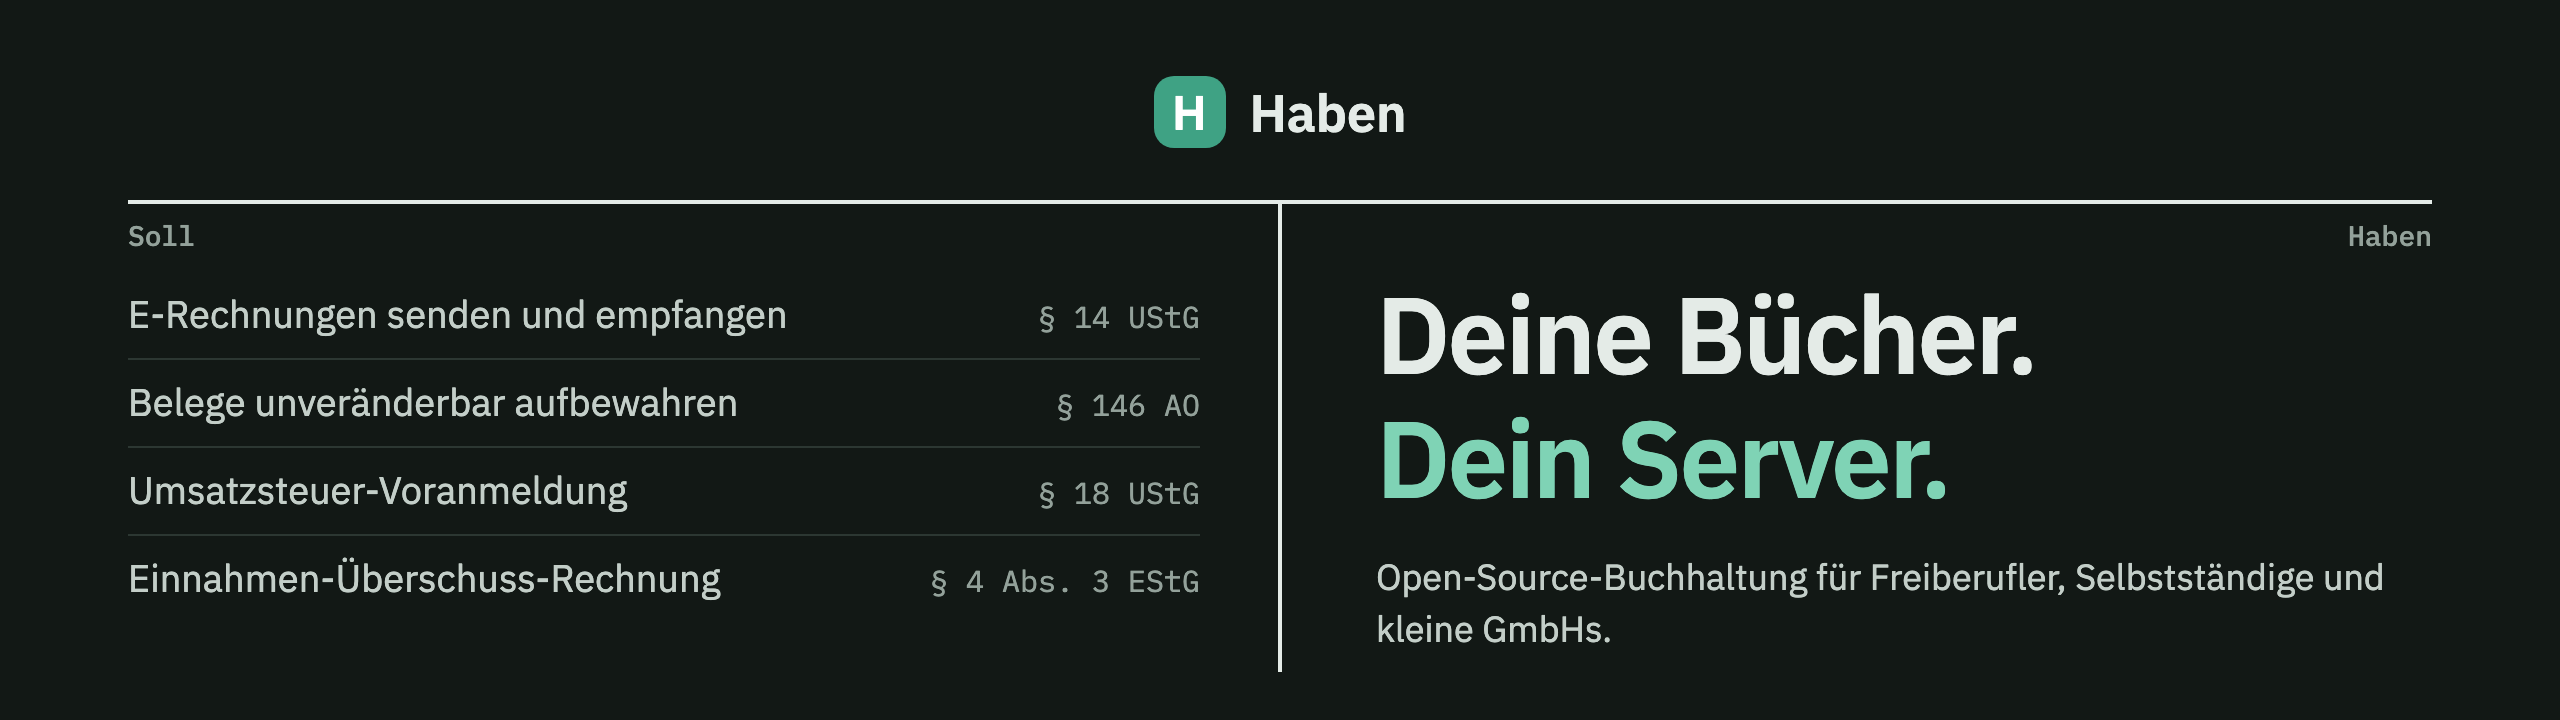
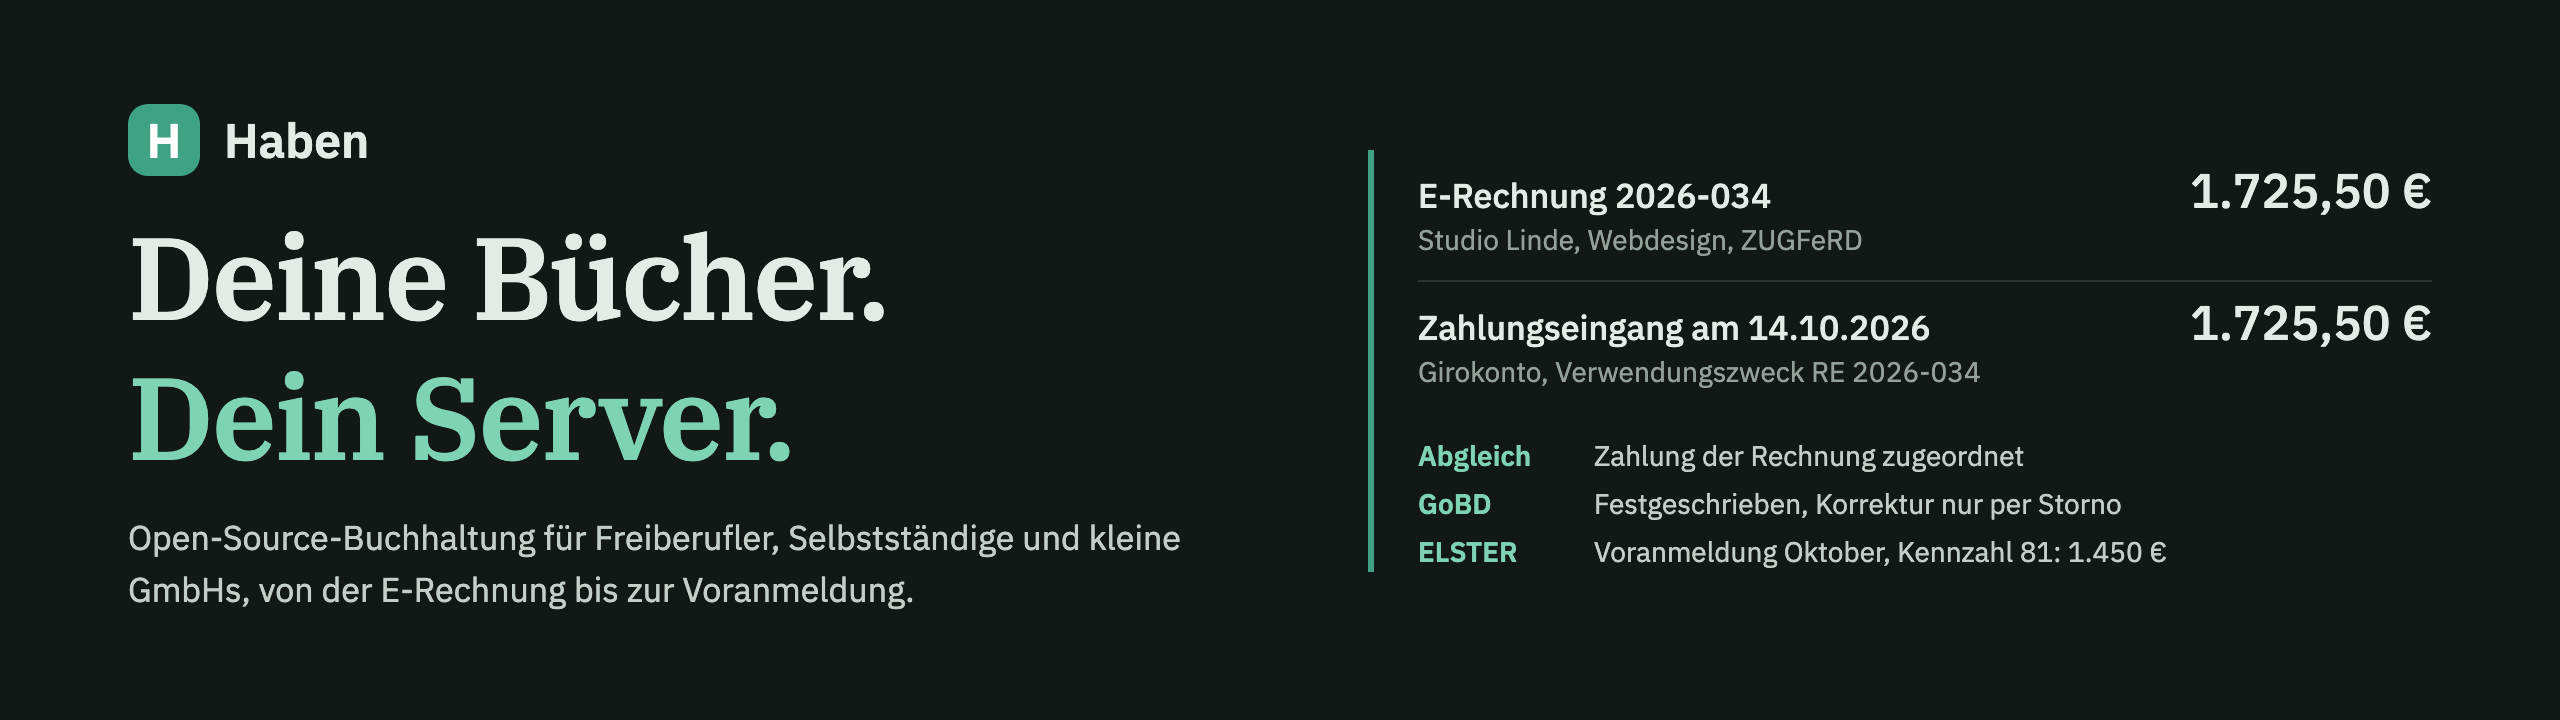
README: Hero und Vorschaubild mit Slogan in IBM Plex Serif, Rechnung und Zahlung als Auszug
Statt des T-Kontos wieder der Aufbau des Codex-Entwurfs: links Slogan und Unterzeile, rechts E-Rechnung und Zahlungseingang. Der Slogan steht in IBM Plex Serif aus packages/einvoice/fonts, rechts gibt es keine Karte, keine Symbolkacheln und keine Monoschrift mehr; Abgleich, GoBD und ELSTER stehen als Liste unter der Zuordnung. Das Vorschaubild folgt demselben Aufbau.

diff --git a/scripts/social-preview/social-preview.html b/scripts/social-preview/social-preview.html
@@ -1,7 +1,7 @@
 <!doctype html>
 <!-- Vorlage für das Social-Media-Bild des Repos (Settings → Social preview), 1280 × 640.
-     Im Stil des Bilds oben in der README (scripts/hero/hero.html): links die Navigation der App, rechts die Übersicht.
-     Ein Bild für alle Umgebungen, deshalb hell (Wald); die dunkle Navigation trägt es auch auf dunklem Grund.
+     Wie das Bild oben in der README (scripts/hero/hero.html), größer gesetzt: links der Slogan in IBM Plex Serif,
+     rechts Rechnung und Zahlung mit Abgleich, GoBD und ELSTER. Ein Bild für alle Umgebungen, deshalb hell (Wald).
      Rendern: bun run docs:social-preview → docs/social-preview.png -->
 <html lang="de">
 <head>
@@ -10,52 +10,48 @@
   @font-face { font-family: "IBM Plex Sans"; font-weight: 400; src: url("../../apps/web/node_modules/@fontsource/ibm-plex-sans/files/ibm-plex-sans-latin-400-normal.woff2") format("woff2"); }
   @font-face { font-family: "IBM Plex Sans"; font-weight: 500; src: url("../../apps/web/node_modules/@fontsource/ibm-plex-sans/files/ibm-plex-sans-latin-500-normal.woff2") format("woff2"); }
   @font-face { font-family: "IBM Plex Sans"; font-weight: 600; src: url("../../apps/web/node_modules/@fontsource/ibm-plex-sans/files/ibm-plex-sans-latin-600-normal.woff2") format("woff2"); }
+  @font-face { font-family: "IBM Plex Serif"; font-weight: 600; src: url("../../packages/einvoice/fonts/IBMPlexSerif-SemiBold.ttf") format("truetype"); }
 
   /* Wald, wie :root in apps/web/src/styles.css */
-  :root { --ink: #16211c; --ground: #f4f5f2; --line: #dde2de; --brand: #3fa284; --nav: #16211c; --nav-active: #2a3b34; --nav-ink: #b9c4be; }
+  :root { --ink: #16211c; --ink-2: #3f4a44; --muted: #56625c; --ground: #f4f5f2; --line: #dde2de; --brand: #3fa284; --accent-ink: #17574a;
+    --sans: "IBM Plex Sans", system-ui, sans-serif; --serif: "IBM Plex Serif", Georgia, serif; }
 
   * { margin: 0; padding: 0; box-sizing: border-box; }
   html, body { width: 1280px; height: 640px; overflow: hidden; }
-  body { position: relative; display: flex; font-family: "IBM Plex Sans", system-ui, sans-serif; background: var(--ground); color: var(--ink); }
-
-  .side { width: 440px; flex: none; background: var(--nav); color: var(--nav-ink); padding: 56px 48px; display: flex; flex-direction: column; position: relative; z-index: 1; }
-  .brand { display: flex; align-items: center; gap: 20px; }
-  .logo { width: 72px; height: 72px; border-radius: 16px; background: var(--brand); color: #fff; display: grid; place-items: center; font-size: 40px; font-weight: 600; }
-  .name { font-size: 56px; font-weight: 600; color: #fff; letter-spacing: -0.8px; }
-  .claim { margin-top: 40px; font-size: 44px; line-height: 52px; font-weight: 600; color: #fff; letter-spacing: -0.8px; }
-  /* Zweite Zeile in der Markenfarbe, wie im Hero der README */
-  .claim span { color: var(--brand); }
-  .sub { margin-top: 16px; font-size: 20px; line-height: 28px; }
-  .facts { margin-top: auto; display: flex; gap: 8px; flex-wrap: wrap; }
-  .facts span { font-size: 15px; line-height: 20px; padding: 6px 10px; border-radius: 16px; background: var(--nav-active); }
-
-  /* Die Übersicht ohne ihre Navigation läuft rechts und unten aus dem Bild, das Handy liegt darüber */
-  .shot { position: absolute; left: 488px; top: 56px; width: 960px; border: 1px solid var(--line); border-radius: 12px 0 0 0; overflow: hidden; }
-  /* Ohne die Navigation der App: die steht links schon */
-  .shot img { width: 1080px; margin-left: -174px; display: block; }
-  /* Handy rechts, unten angeschnitten wie aus dem Bild ragend: Rahmen 3 % und Ecken 17 % der Breite wie ein
-     aktuelles Handy, Kante, Seitentasten,
-     Statusleiste in der Farbe der Kopfzeile der App am Handy und Kamera als Pille. Das Bild selbst hat keine Statusleiste */
-  .phone { position: absolute; right: 40px; top: 176px; width: 244px; height: 504px; padding: 7px 7px 0; background: #0b100e; border-radius: 41px 41px 0 0; box-shadow: 0 0 0 1.5px #3a4741, 0 16px 40px rgba(22, 33, 28, 0.25); }
-  .phone::before, .phone::after { content: ""; position: absolute; width: 3px; border-radius: 2px; background: #3a4741; }
-  .phone::before { left: -4px; top: 96px; height: 48px; box-shadow: 0 -64px 0 0 #3a4741; }
-  .phone::after { right: -4px; top: 120px; height: 72px; }
-  .phone .screen { position: relative; height: 100%; border-radius: 34px 34px 0 0; overflow: hidden; padding-top: 30px; background: var(--nav); }
-  .phone .screen img { width: 100%; display: block; }
-  .phone .time { position: absolute; top: 8px; left: 26px; font-size: 13px; font-weight: 600; color: #fff; }
-  .phone .bars { position: absolute; top: 11px; right: 22px; display: flex; gap: 2px; align-items: flex-end; }
-  .phone .bars i { display: block; width: 3px; border-radius: 1px; background: #fff; }
-  .phone .island { position: absolute; top: 7px; left: 50%; width: 72px; height: 20px; margin-left: -36px; border-radius: 10px; background: #000; }
+  body { background: var(--ground); color: var(--ink); font-family: var(--sans); padding: 64px 72px; display: flex; flex-direction: column; }
+  .brand { display: flex; align-items: center; gap: 16px; font-size: 34px; font-weight: 600; }
+  .logo { width: 52px; height: 52px; border-radius: 14px; background: var(--brand); color: #fff; display: grid; place-items: center; font-size: 34px; }
+  .inhalt { flex: 1; display: grid; grid-template-columns: 1fr 520px; gap: 64px; align-items: center; }
+  h1 { font: 600 80px/94px var(--serif); letter-spacing: -1.4px; }
+  h1 span { display: block; color: var(--accent-ink); }
+  .beschreibung { margin-top: 20px; font-size: 24px; line-height: 34px; color: var(--ink-2); }
+  .auszug { padding-left: 26px; border-left: 4px solid var(--brand); }
+  .zeile { display: flex; justify-content: space-between; align-items: baseline; gap: 20px; padding: 10px 0 14px; }
+  .zeile + .zeile { border-top: 1px solid var(--line); }
+  .was { font-size: 22px; font-weight: 500; line-height: 30px; }
+  .wer { font-size: 18px; line-height: 26px; color: var(--muted); }
+  .betrag { font-size: 28px; font-weight: 500; font-variant-numeric: tabular-nums; white-space: nowrap; }
+  dl { display: grid; grid-template-columns: 96px 1fr; gap: 6px 14px; margin-top: 16px; font-size: 18px; line-height: 26px; }
+  dt { font-weight: 600; color: var(--accent-ink); }
+  dd { color: var(--ink-2); }
 </style>
 </head>
 <body>
-  <aside class="side">
-    <div class="brand"><div class="logo">H</div><div class="name">Haben</div></div>
-    <p class="claim">Deine Bücher.<br><span>Dein Server.</span></p>
-    <p class="sub">Open-Source-Buchhaltung für Freiberufler, Selbstständige und kleine GmbHs.</p>
-    <div class="facts"><span>E-Rechnung</span><span>ELSTER</span><span>GoBD</span><span>AGPL</span></div>
-  </aside>
-  <div class="shot"><img src="../../docs/screenshot-uebersicht.png" alt=""></div>
-  <div class="phone"><div class="screen"><img src="../../docs/screenshot-mobil.png" alt=""><div class="island"></div><div class="time">9:41</div><div class="bars"><i style="height:4px"></i><i style="height:6px"></i><i style="height:8px"></i><i style="height:10px"></i></div></div></div>
+  <div class="brand"><span class="logo">H</span>Haben</div>
+  <div class="inhalt">
+    <section>
+      <h1>Deine Bücher.<span>Dein Server.</span></h1>
+      <p class="beschreibung">Open-Source-Buchhaltung für Freiberufler, Selbstständige und kleine GmbHs.</p>
+    </section>
+    <section class="auszug">
+      <div class="zeile"><div><div class="was">E-Rechnung 2026-034</div><div class="wer">Studio Linde, ZUGFeRD</div></div><div class="betrag">1.725,50 €</div></div>
+      <div class="zeile"><div><div class="was">Zahlungseingang</div><div class="wer">Girokonto, RE 2026-034</div></div><div class="betrag">1.725,50 €</div></div>
+      <dl>
+        <dt>Abgleich</dt><dd>Zahlung zugeordnet</dd>
+        <dt>GoBD</dt><dd>Festgeschrieben</dd>
+        <dt>ELSTER</dt><dd>Voranmeldung Oktober</dd>
+      </dl>
+    </section>
+  </div>
 </body>
 </html>

diff --git a/scripts/hero/hero.html b/scripts/hero/hero.html
@@ -1,5 +1,5 @@
 <!doctype html>
-<!-- Bild oben in der README, 1280 × 360 bei doppelter Auflösung. Gesetzt als T-Konto: links Soll, was das Steuerrecht verlangt, rechts Haben.
+<!-- Bild oben in der README, 1280 × 360 bei doppelter Auflösung. Aufbau nach einem Entwurf von Codex; der Slogan in IBM Plex Serif aus packages/einvoice/fonts, alles andere in Plex Sans wie die App.
      Farben und Schriften wie in apps/web/src/styles.css: ohne Hash Wald (hell), mit #nacht das dunkle Theme.
      Rendern: bun run docs:hero → docs/hero-hell.png und docs/hero-dunkel.png -->
 <html lang="de">
@@ -12,6 +12,7 @@
     @font-face { font-family: "IBM Plex Sans"; font-style: normal; font-weight: 400; src: url("../../apps/web/node_modules/@fontsource/ibm-plex-sans/files/ibm-plex-sans-latin-400-normal.woff2") format("woff2"); }
     @font-face { font-family: "IBM Plex Sans"; font-style: normal; font-weight: 500; src: url("../../apps/web/node_modules/@fontsource/ibm-plex-sans/files/ibm-plex-sans-latin-500-normal.woff2") format("woff2"); }
     @font-face { font-family: "IBM Plex Sans"; font-style: normal; font-weight: 600; src: url("../../apps/web/node_modules/@fontsource/ibm-plex-sans/files/ibm-plex-sans-latin-600-normal.woff2") format("woff2"); }
+    @font-face { font-family: "IBM Plex Serif"; font-style: normal; font-weight: 600; src: url("../../packages/einvoice/fonts/IBMPlexSerif-SemiBold.ttf") format("truetype"); }
     @font-face { font-family: "IBM Plex Mono"; font-style: normal; font-weight: 400; src: url("../../apps/web/node_modules/@fontsource/ibm-plex-mono/files/ibm-plex-mono-latin-400-normal.woff2") format("woff2"); }
     @font-face { font-family: "IBM Plex Mono"; font-style: normal; font-weight: 500; src: url("../../apps/web/node_modules/@fontsource/ibm-plex-mono/files/ibm-plex-mono-latin-500-normal.woff2") format("woff2"); }
 
@@ -30,6 +31,7 @@
       --danger-ink: #9b1c1c; --danger-soft: #fbe4e4;
       --sans: "IBM Plex Sans", system-ui, sans-serif;
       --mono: "IBM Plex Mono", ui-monospace, monospace;
+      --serif: "IBM Plex Serif", Georgia, serif;
     }
     html.nacht {
       color-scheme: dark;
@@ -47,46 +49,40 @@
     * { box-sizing: border-box; }
     html, body { margin: 0; width: 1280px; height: 360px; }
     body { background: var(--ground); color: var(--ink); font: 400 16px/24px var(--sans); }
-    main { position: relative; width: 1280px; height: 360px; padding: 36px 64px 0; }
-    .brand { display: flex; justify-content: center; align-items: center; gap: 12px; height: 40px; font-size: 26px; font-weight: 600; }
+    main { width: 1280px; height: 360px; padding: 36px 64px; display: grid; grid-template-columns: 540px 1fr; gap: 80px; align-items: center; }
+    .brand { display: flex; align-items: center; gap: 12px; font-size: 24px; line-height: 36px; font-weight: 600; }
     .brand-mark { width: 36px; height: 36px; display: grid; place-items: center; border-radius: 10px; background: var(--brand); color: #fff; font-size: 24px; }
-    /* Das T: Querstrich über beide Seiten, Mittelstrich bis fast zum Rand */
-    .konto { position: relative; margin-top: 24px; height: 236px; border-top: 2px solid var(--ink); display: grid; grid-template-columns: 1fr 1fr; }
-    .konto::before { content: ""; position: absolute; left: 50%; top: 0; bottom: 0; width: 2px; margin-left: -1px; background: var(--ink); }
-    .seite { position: relative; padding-top: 34px; }
-    .soll { padding-right: 40px; }
-    .haben { padding-left: 48px; }
-    .kopf { position: absolute; top: 8px; font: 500 14px/16px var(--mono); color: var(--muted); }
-    .soll .kopf { left: 0; }
-    .haben .kopf { right: 0; }
-    ul { list-style: none; margin: 0; padding: 0; }
-    li { display: flex; justify-content: space-between; align-items: baseline; gap: 24px; height: 44px; padding-top: 9px; border-bottom: 1px solid var(--line); font-size: 19px; color: var(--ink-2); }
-    li:last-child { border-bottom: 0; }
-    li span { font: 400 15px/20px var(--mono); color: var(--muted); white-space: nowrap; }
-    h1 { margin: 0; font-size: 54px; line-height: 62px; font-weight: 600; letter-spacing: -1.3px; }
+    h1 { margin: 16px 0 12px; font: 600 58px/70px var(--serif); letter-spacing: -1px; }
     h1 span { display: block; color: var(--accent-ink); }
-    .beschreibung { margin: 16px 0 0; color: var(--ink-2); font-size: 18px; line-height: 26px; }
+    .beschreibung { margin: 0; color: var(--ink-2); font-size: 17px; line-height: 26px; }
+    /* Rechts wie ein Auszug, ohne Kasten: die Linie in der Markenfarbe hält Rechnung und Zahlung zusammen */
+    .auszug { padding-left: 22px; border-left: 3px solid var(--brand); }
+    .zeile { display: flex; justify-content: space-between; align-items: baseline; gap: 24px; padding: 8px 0 10px; }
+    .zeile + .zeile { border-top: 1px solid var(--line); }
+    .was { font-size: 17px; font-weight: 500; line-height: 24px; }
+    .wer { font-size: 14px; line-height: 20px; color: var(--muted); }
+    .betrag { font-size: 24px; font-weight: 500; font-variant-numeric: tabular-nums; white-space: nowrap; }
+    dl { display: grid; grid-template-columns: 76px 1fr; gap: 4px 12px; margin: 12px 0 0; font-size: 14px; line-height: 20px; }
+    dt { font-weight: 600; color: var(--accent-ink); }
+    dd { margin: 0; color: var(--ink-2); }
   </style>
 </head>
 <body>
   <main>
-    <div class="brand"><span class="brand-mark">H</span>Haben</div>
-    <div class="konto">
-      <section class="seite soll">
-        <span class="kopf">Soll</span>
-        <ul>
-          <li>E-Rechnungen senden und empfangen<span>§ 14 UStG</span></li>
-          <li>Belege unveränderbar aufbewahren<span>§ 146 AO</span></li>
-          <li>Umsatzsteuer-Voranmeldung<span>§ 18 UStG</span></li>
-          <li>Einnahmen-Überschuss-Rechnung<span>§ 4 Abs. 3 EStG</span></li>
-        </ul>
-      </section>
-      <section class="seite haben">
-        <span class="kopf">Haben</span>
-        <h1>Deine Bücher.<span>Dein Server.</span></h1>
-        <p class="beschreibung">Open-Source-Buchhaltung für Freiberufler, Selbstständige und kleine GmbHs.</p>
-      </section>
-    </div>
+    <section>
+      <div class="brand"><span class="brand-mark">H</span>Haben</div>
+      <h1>Deine Bücher.<span>Dein Server.</span></h1>
+      <p class="beschreibung">Open-Source-Buchhaltung für Freiberufler, Selbstständige und kleine GmbHs, von der E-Rechnung bis zur Voranmeldung.</p>
+    </section>
+    <section class="auszug">
+      <div class="zeile"><div><div class="was">E-Rechnung 2026-034</div><div class="wer">Studio Linde, Webdesign, ZUGFeRD</div></div><div class="betrag">1.725,50 €</div></div>
+      <div class="zeile"><div><div class="was">Zahlungseingang am 14.10.2026</div><div class="wer">Girokonto, Verwendungszweck RE 2026-034</div></div><div class="betrag">1.725,50 €</div></div>
+      <dl>
+        <dt>Abgleich</dt><dd>Zahlung der Rechnung zugeordnet</dd>
+        <dt>GoBD</dt><dd>Festgeschrieben, Korrektur nur per Storno</dd>
+        <dt>ELSTER</dt><dd>Voranmeldung Oktober, Kennzahl 81: 1.450 €</dd>
+      </dl>
+    </section>
   </main>
 </body>
 </html>

diff --git a/docs/entwicklung.md b/docs/entwicklung.md
@@ -119,7 +119,7 @@ Projektname und Ports gelten für jeden Befehl dieser Umgebung, also auch für `
 | `pip install -r requirements-docs.txt && zensical serve` | Diese Dokumentation als Website lokal auf Port 8000 (Zensical); `zensical build --strict` wie in der CI. Das Änderungsdatum unter jeder Seite schreibt `scripts/doku-aenderungsdatum` aus dem letzten Commit der Datei, bis Zensical es selbst kann; Tests: `python -m unittest discover -s scripts/doku-aenderungsdatum`. Hinweise stehen im Stil von GitHub (`> [!NOTE]`, `[!TIP]`, `[!IMPORTANT]`, `[!WARNING]`, `[!CAUTION]` allein in der ersten Zeile), damit sie auf GitHub und auf der Website als Kasten erscheinen; die deutschen Titel setzt `scripts/doku-hinweise`, Tests: `python -m unittest discover -s scripts/doku-hinweise`. Nach dem Build legt `scripts/doku-kurzlinks` für jede Seite einen Ordner mit Weiterleitung an, damit auch `haben.app/api/` mit Schrägstrich auf `api.html` führt statt auf die 404-Seite (`/api` ohne Schrägstrich liefert GitHub Pages selbst aus); Tests: `python -m unittest discover -s scripts/doku-kurzlinks`. Jede Seite beginnt mit Front Matter: `title:` (Titel für Suchmaschinen, höchstens etwa 60 Zeichen; die Navigation behält ihren Namen aus `mkdocs.yml`) und `description:` (höchstens etwa 160 Zeichen). Daraus setzt `overrides/main.html` Beschreibung, Open Graph und Twitter-Card; die CI bricht ab, wenn einer Seite `description:` fehlt |
 | `bun run docs:screenshots` | Nimmt die Bilder in README und Doku neu auf (`docs/screenshot-*.png`, hell und dunkel, siehe [Bilder für README und Doku](#bilder-für-readme-und-doku)), danach Vorschaubild und Hero |
 | `bun run --cwd apps/elster-helfer build` | Baut die Erweiterung „Haben für Mein ELSTER“ nach `apps/elster-helfer/dist`; diesen Ordner lädt Chrome als entpackte Erweiterung |
-| `bun run docs:hero` | Rendert `scripts/hero/hero.html` nach `docs/hero-hell.png` und `docs/hero-dunkel.png` (1280 × 360 bei doppelter Auflösung, Bild oben in der README, als T-Konto gesetzt) |
+| `bun run docs:hero` | Rendert `scripts/hero/hero.html` nach `docs/hero-hell.png` und `docs/hero-dunkel.png` (1280 × 360 bei doppelter Auflösung, Bild oben in der README; Slogan in IBM Plex Serif aus `packages/einvoice/fonts`) |
 | `bun run docs:hell-dunkel` | Setzt `scripts/hell-dunkel/hell-dunkel.html` aus den Bildern der Übersicht zu `docs/screenshot-hell-dunkel.png` zusammen (hell und dunkel schräg geteilt, für die README) |
 | `bun run docs:social-preview` | Rendert `scripts/social-preview/social-preview.html` nach `docs/social-preview.png` (1280 × 640, Bild für Settings → Social preview) |
 

diff --git a/README.md b/README.md
@@ -2,7 +2,7 @@
 
 <picture>
   <source media="(prefers-color-scheme: dark)" srcset="docs/hero-dunkel.png">
-  <img src="docs/hero-hell.png" alt="Haben als T-Konto: auf der Soll-Seite E-Rechnung nach § 14 UStG, unveränderbare Belege nach § 146 AO, Umsatzsteuer-Voranmeldung nach § 18 UStG und Einnahmen-Überschuss-Rechnung nach § 4 Abs. 3 EStG; auf der Haben-Seite „Deine Bücher. Dein Server.“" width="900">
+  <img src="docs/hero-hell.png" alt="Haben, Deine Bücher. Dein Server.: E-Rechnung über 1.725,50 € und Zahlungseingang zugeordnet, nach GoBD festgeschrieben, in der Voranmeldung für ELSTER enthalten" width="900">
 </picture>
 
 Haben ist eine Open-Source-Buchhaltung für Freiberufler, Selbstständige, Kleinunternehmer und kleine GmbHs,
